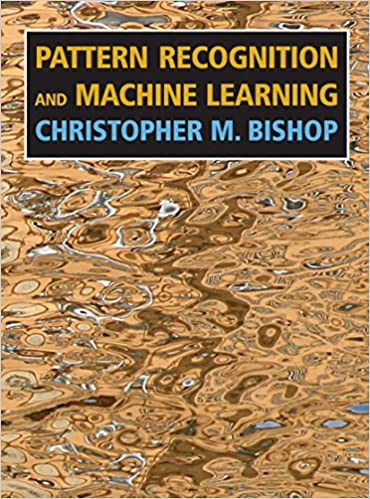
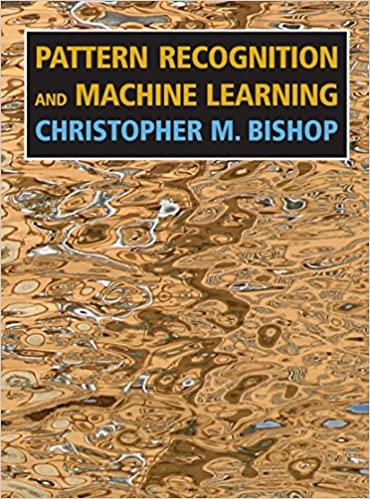
a

diff --git a/_pages/reshape.py b/_pages/reshape.py
@@ -1,0 +1,13 @@
+import cv2
+import glob
+from PIL import Image
+
+for idx,f in enumerate(sorted(glob.glob("*.jpg"))):
+    print(f)
+    img = cv2.imread(f)
+    img = cv2.cvtColor(img, cv2.COLOR_BGR2RGB)
+    img = cv2.resize(img, (370, 499), interpolation = cv2.INTER_CUBIC)
+    Image.fromarray(img).save(str(idx+1) + ".jpg")
+
+    #cv2.imwrite(str(idx) + ".jpg", img)
+
